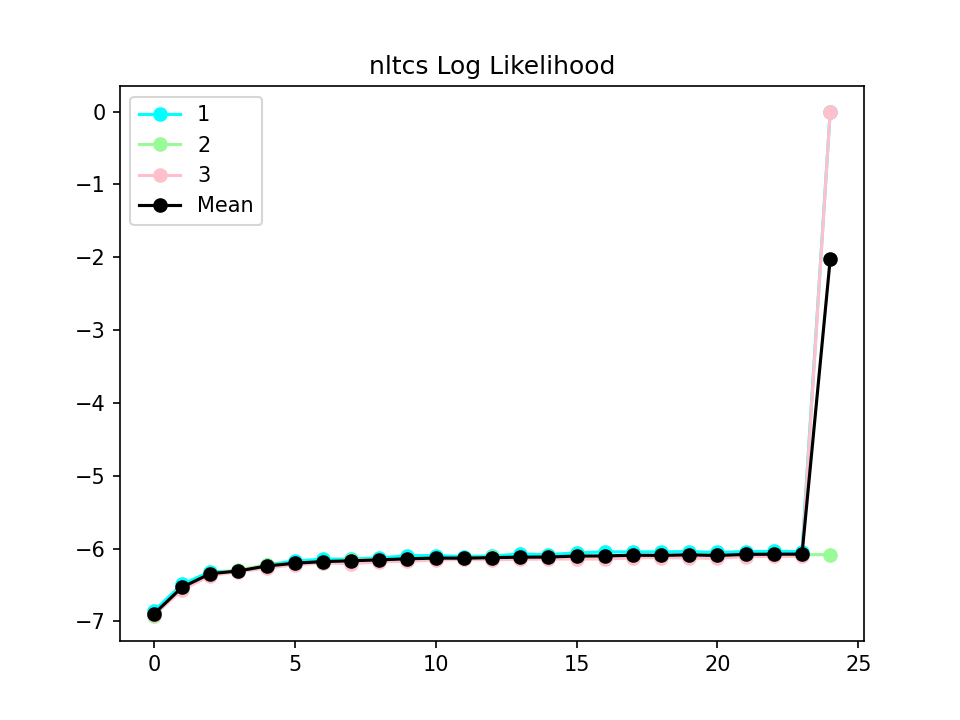
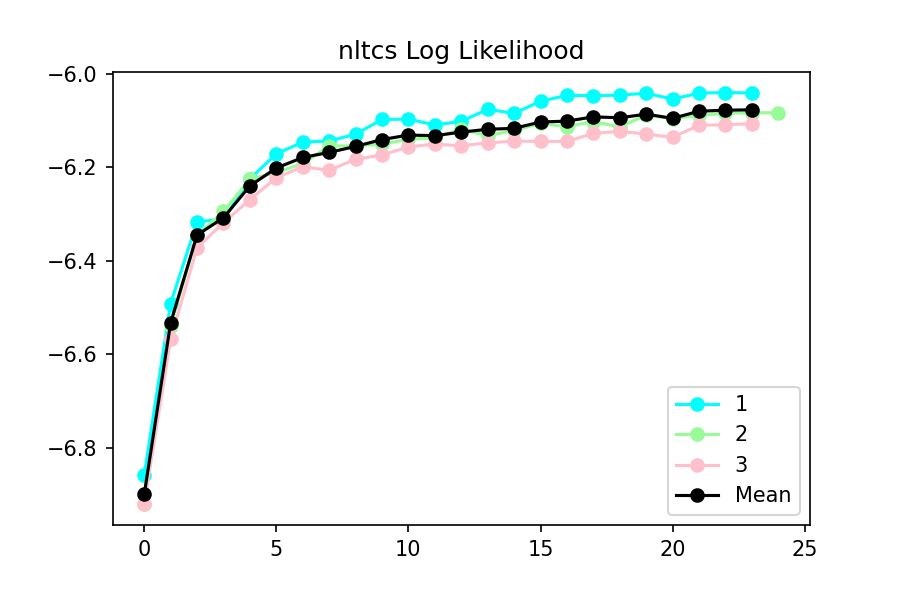
Cross

diff --git a/src/plotcross2.py b/src/plotcross2.py
@@ -1,0 +1,68 @@
+
+
+import numpy as np
+
+import matplotlib.pyplot as plt
+
+path = "cross_new"
+datasets = ["nltcs"]
+
+upper = {"nltcs":
+	{"ll": [-6.05057148300942], "n": [2152]},
+        "msnbc":
+	{"ll": [-6.045740974137786],	"n": [5142]},
+        "plants":
+	{"ll": [-13.328004042213157],		"n": [10671]},
+        "kdd":
+	{"ll": [-2.1610551668591897],		"n": [3963]},
+        "baudio":
+	{"ll": [-40.07111208519845]	,	"n": [13621]},
+        "jester":
+	{"ll": [-53.10895478609421]	,	"n": [16118]},
+        "bnetflix":
+	{"ll": [-57.05938603881737]	,	"n": [4718]}
+    }
+
+colors = ["aqua", "palegreen", "pink"]
+    
+for dataset in datasets:
+    
+    lls = list()
+    nodes_k = list()
+    for k in range(1,4):
+        f = open(f"{path}/{dataset}/{k}/stats.txt","r")
+        stats = f.readlines()
+        f.close()
+        ll = stats[2][stats[2].index("[")+1:-2].split(", ")
+        lls.append([float(x) for x in ll])
+        nodes = stats[3][stats[3].index("[")+1:-1].split(", ")
+        nodes_k.append([float(x) for x in nodes])
+        
+    plt.close()
+    total_ll = np.zeros(min([len(lls[i]) for i in range(len(lls))]))
+    upperll = [upper[dataset]["ll"]] * len(total_ll)
+    #plt.plot(upperll, linestyle="dotted", color ="blue", label="Upper Limit")
+    for i in range(len(lls)):
+    	plt.plot(lls[i], marker="o", color =colors[i], label=(i+1))
+    	total_ll += np.array(lls[i][:len(total_ll)])
+    avg_ll = total_ll/len(lls)
+    plt.plot(avg_ll, marker="o", color ="black", label="Mean")
+    plt.title(f"{dataset} Log Likelihood")
+    plt.legend()
+    plt.savefig(f"{path}/{dataset}/ll.png", dpi=150)
+    plt.close()
+    
+    
+    total_nodes = np.zeros(min([len(nodes_k[i]) for i in range(len(nodes_k))]))
+    uppern = [upper[dataset]["n"]] * len(total_nodes)
+    #plt.plot(uppern, linestyle="dotted", color ="blue", label="Upper Limit")
+    for i in range(len(nodes_k)):
+    	plt.plot(nodes_k[i], marker="o", color =colors[i], label=(i+1))
+    	total_nodes += np.array(nodes_k[i][:len(total_nodes)])
+    avg_nodes = total_nodes/len(nodes_k)
+    plt.plot(avg_nodes, marker="o", color ="black", label="Mean")
+    plt.title(f"{dataset} Nodes")
+    plt.legend()
+    plt.savefig(f"{path}/{dataset}/nodes.png", dpi=150)
+    plt.close()
+
